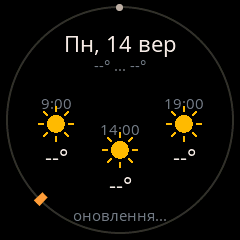
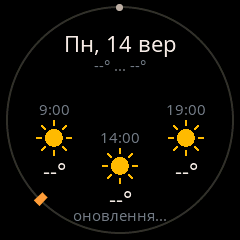
test(sim): update screenshots for weather arc layout and enforce slot determinism

Changed region(s): [[0.4083, 0.525, 0.5833, 0.8458], [0.6708, 0.4083, 0.875, 0.7292], [0.1458, 0.4083, 0.3208, 0.7292]]

diff --git a/tools/test_runner.py b/tools/test_runner.py
@@ -322,6 +322,8 @@ async def run_test_suite() -> bool:
             # Set alarm to 07:30 while timer is running
             await harness.simulate_alarm(enabled=True, hour=7, minute=30)
             await asyncio.sleep(0.5)
+            await harness.set_sim_slot(2)
+            await asyncio.sleep(0.3)
             png = await harness.capture_screenshot("04_dual_bezel_ticks")
             assert png.exists() and png.stat().st_size > 1000
             results.append(
@@ -848,6 +850,7 @@ async def run_test_suite() -> bool:
             await asyncio.sleep(0.3)
             # HA triggers melody stop
             await harness.call_service("stop_melody")
+            await harness.set_sim_slot(0)
             await asyncio.sleep(0.3)
             png_audio = await harness.capture_screenshot("ha_03_audio_services")
             assert png_audio.exists() and png_audio.stat().st_size > 1000
@@ -867,6 +870,7 @@ async def run_test_suite() -> bool:
             # Set brightness to 80% and temp trim to -1.0 °C
             await harness.set_number("Screen Brightness", 80.0)
             await harness.set_number("Підстроювання температури", -1.0)
+            await harness.set_sim_slot(0)
             await asyncio.sleep(0.5)
             png_trim = await harness.capture_screenshot("ha_04_number_controls")
             assert png_trim.exists() and png_trim.stat().st_size > 1000
